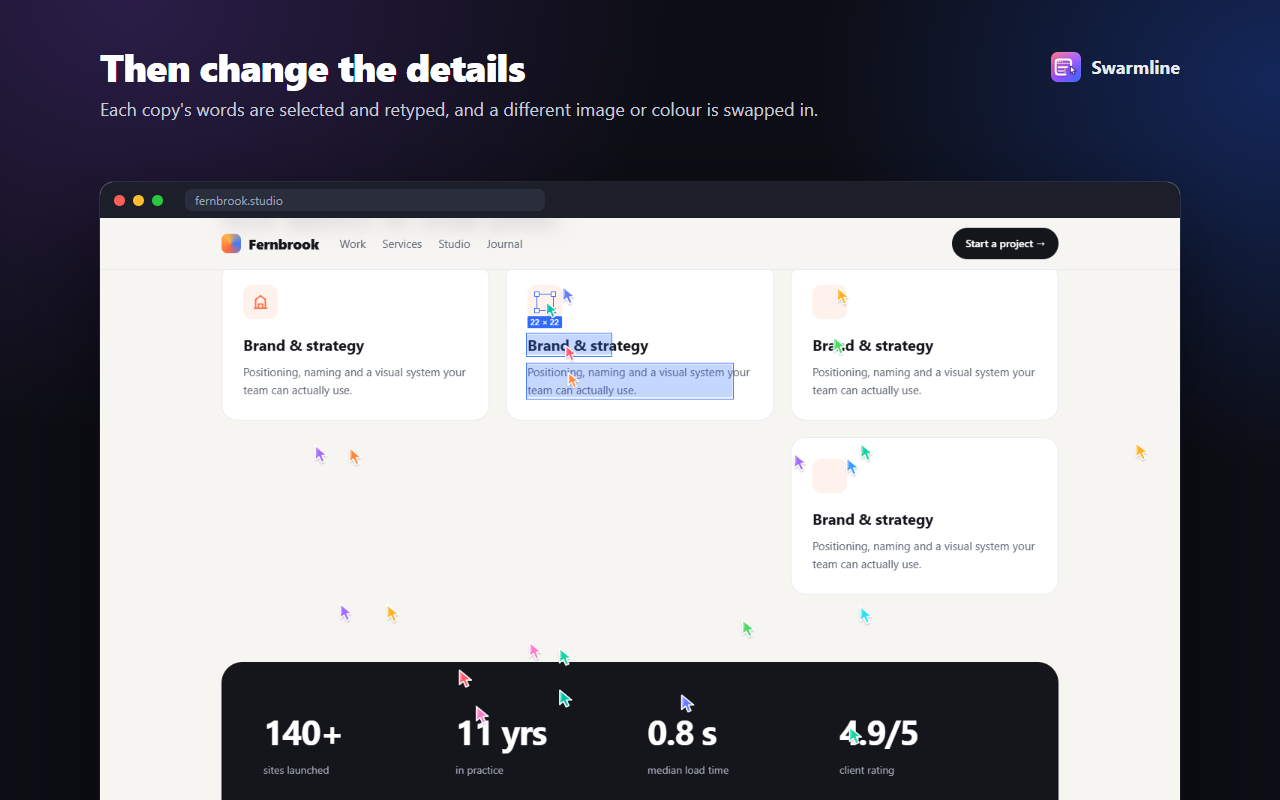
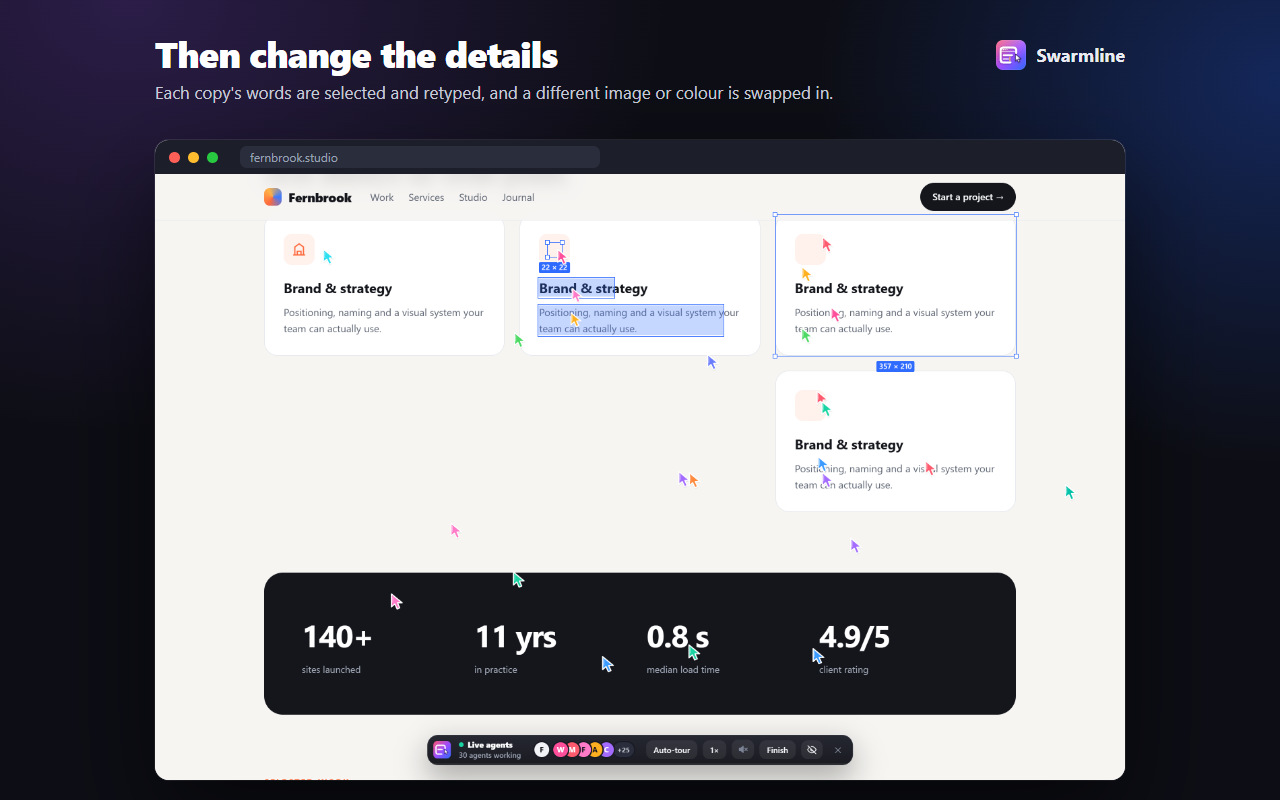
Store assets show the Live agents toolbar; full publishing guide
- Screenshots frame the whole browser window (captured at 2x), so the new
  toolbar appears in every shot; captions fit on one line.
- PUBLISHING.md: where every file is, what goes in each dashboard field, the
  GitHub and Pages steps, after-approval and update steps, troubleshooting.
- Privacy policy: precise wording now that the toolbar shows the open site's
  own favicon (still no servers contacted, nothing collected).

diff --git a/site/privacy.html b/site/privacy.html
@@ -4,7 +4,7 @@
 <meta charset="utf-8">
 <meta name="viewport" content="width=device-width, initial-scale=1">
 <title>Privacy policy · Swarmline</title>
-<meta name="description" content="Swarmline's privacy policy: it collects no data, makes no network requests and stores nothing.">
+<meta name="description" content="Swarmline's privacy policy: it collects no data, contacts no servers and stores nothing.">
 <link rel="icon" href="assets/favicon-32.png" sizes="32x32">
 <link rel="stylesheet" href="styles.css">
 </head>
@@ -26,7 +26,7 @@
   <ul>
     <li><strong>It only runs when you ask.</strong> Swarmline uses Chrome's <code>activeTab</code> permission, so it can access only the tab where you click its toolbar button or press its shortcut, and only at that moment. It has no access to your other tabs, your browsing history, or any site you haven't started it on.</li>
     <li><strong>Everything happens on your device.</strong> To play the animation, Swarmline reads the layout of the page in your browser (where elements are, their sizes and colours) and temporarily hides elements, then shows them again one by one. That information is used only for the animation, stays in that tab's memory, and is discarded when the animation ends, when you exit, or when you leave the page. The page is always left exactly as it was.</li>
-    <li><strong>No network requests.</strong> Swarmline doesn't contact any server, doesn't use analytics or tracking, and doesn't load remote code.</li>
+    <li><strong>No servers, no tracking.</strong> Swarmline doesn't contact any server of its own or anyone else's, doesn't use analytics or tracking, and doesn't load remote code. The one thing it shows from the web is the open site's own icon (its favicon), in the toolbar, taken from that same site.</li>
     <li><strong>No storage.</strong> Nothing is saved to cookies, <code>localStorage</code>, <code>chrome.storage</code> or anywhere else.</li>
     <li><strong>No accounts, no ads, no selling of data.</strong></li>
   </ul>

diff --git a/PUBLISHING.md b/PUBLISHING.md
@@ -1,65 +1,150 @@
-# Publishing Swarmline to the Chrome Web Store
+# Publishing Swarmline
 
-Everything in this folder is ready. These are the steps only you can do (accounts, payment, review). Allow about an hour, then a few days for Google's review.
+Everything to upload is already built and checked. This guide covers the parts only you can do: accounts, the fee and the review. It takes about an hour, then Google usually reviews in a few days.
 
-## 0. Before you start
+## Where everything is
 
-- [x] Support email set to **imperfxt@gmail.com** (shown on the website and privacy policy). To change it later:
-      ```sh
-      npm run configure -- --email new@example.com
-      ```
-- [ ] Run the full check. It must say **READY** (this also rebuilds the five store screenshots from real moments of a build):
-      ```sh
-      npm install
-      npm run assets && npm run package && npm run preflight
-      ```
+All paths are inside `H:\swarm design\swarmline`.
 
-## 1. Put the code and website on GitHub (for the privacy policy URL)
+| What | Where | Used for |
+| --- | --- | --- |
+| **The extension package** | `dist\swarmline-1.0.0.zip` | Upload to the Chrome Web Store (built by `npm run package`) |
+| **Listing text, ready to paste** | `store\LISTING.md` | Every field of the store dashboard: description, privacy answers, URLs |
+| Store icon | `store\store-icon-128.png` | Store listing → Store icon |
+| Screenshots 1–5 | `store\screenshot-1.png` … `screenshot-5.png` | Store listing → Screenshots (upload in order) |
+| Small promo tile | `store\promo-440x280.png` | Store listing → Small promo tile |
+| Marquee promo tile | `store\marquee-1400x560.png` | Store listing → Marquee promo tile |
+| Website (home, privacy, support) | `site\` (built copy in `dist\site\`) | Published to GitHub Pages automatically when you push |
+| Privacy policy | `PRIVACY.md`, and the web page `site\privacy.html` | The store's privacy policy URL points at the web page |
+| Extension source | `extension\` (`manifest.json`, `background.js`, `swarmline.js`, `icons\`) | What's inside the zip |
+| Demo page for screenshots | `demo\index.html` | A fictional studio site the screenshots are taken from |
+| Build and check scripts | `scripts\` | `assets`, `package`, `site`, `configure`, `preflight` |
+| Tests | `tests\` | `npm test`, `npm run test:ext` |
+| Credits and licence | `NOTICE.md`, `LICENSE` | Credits Swarm Rebuild (Dhvanil Patel) and Swarm (Joel Califa) |
+| Website settings | `site.config.json` | Support email, store link, repo and site URLs (change them with `npm run configure`) |
+| Pages deploy | `.github\workflows\pages.yml` | Builds and publishes the website on every push |
 
-The store requires a public privacy policy page, and the site in `site/` provides it.
+Not uploaded anywhere: `node_modules\` (tools for building and testing) and `store\raw\` (raw captures used to make the screenshots, ignored by git).
 
-1. Create a **public** repository named **`swarmline`** on github.com (account `imperfec-t`). Don't add a README or license; this folder already has them.
-2. From this folder:
+## Your details (already filled in everywhere)
+
+| | |
+| --- | --- |
+| Publisher name | imperfxt |
+| Account type | Non-trader |
+| Contact and support email | imperfxt@gmail.com |
+| GitHub | imperfec-t, repo `swarmline` |
+| Homepage | https://imperfec-t.github.io/swarmline/ |
+| Support page | https://imperfec-t.github.io/swarmline/support.html |
+| Privacy policy | https://imperfec-t.github.io/swarmline/privacy.html |
+
+## Step 0: final check (2 minutes)
+
+In a terminal in this folder:
+
+```sh
+npm install
+npm run assets && npm run package && npm run preflight
+```
+
+It must end with **READY: 0 failing**. One warning ("storeUrl not set yet") is expected until the store link exists in step 5. `npm run assets` regenerates the five screenshots from real moments of a build, so run it again whenever the look changes.
+
+## Step 1: put the code on GitHub (10 minutes)
+
+The store needs a public privacy policy page, and the website in `site\` provides it.
+
+1. Sign in to github.com as **imperfec-t**. Click **+ → New repository**.
+2. Repository name: **`swarmline`**. Set it to **Public**. Leave "Add a README", ".gitignore" and "license" **unticked**, because this folder already has them. Click **Create repository**.
+3. In a terminal in this folder:
    ```sh
    git remote add origin https://github.com/imperfec-t/swarmline.git
    git push -u origin main
    ```
-3. On GitHub: **Settings → Pages → Build and deployment → Source: GitHub Actions**.
-4. Open the **Actions** tab and wait for **Website** to go green (re-run it once if it ran before step 3).
-5. Check these three pages load:
+   The first push opens a browser window to sign in to GitHub. Approve it.
+
+## Step 2: turn on the website (5 minutes)
+
+1. On the repo page: **Settings → Pages → Build and deployment → Source: GitHub Actions**.
+2. Open the **Actions** tab. Wait for the **Website** run to turn green (about a minute). If it ran and failed before you changed the setting, click it and choose **Re-run all jobs**.
+3. Open these three pages and check they load:
    - https://imperfec-t.github.io/swarmline/
    - https://imperfec-t.github.io/swarmline/privacy.html
    - https://imperfec-t.github.io/swarmline/support.html
 
-## 2. Register as a Chrome Web Store developer (once)
+Don't submit to the store until the privacy page loads. Reviewers open it.
 
-1. Go to the [Developer Dashboard](https://chrome.google.com/webstore/devconsole) and sign in with the Google account you want to publish under.
-2. Accept the developer agreement and pay the one-time registration fee.
-3. In **Account**, set the **publisher name** and **contact email** (use imperfxt@gmail.com), and verify the email (Google sends a link). Submission isn't possible until the contact email is verified.
+## Step 3: developer account (once, 10 minutes)
 
-## 3. Create the item
+1. Turn on **2-Step Verification** for the Google account you'll publish with (myaccount.google.com → Security). The Chrome Web Store requires it.
+2. Open the [Chrome Web Store Developer Dashboard](https://chrome.google.com/webstore/devconsole) and sign in.
+3. Accept the developer agreement and pay the one-time registration fee.
+4. **Account** page:
+   - **Publisher name:** `imperfxt`
+   - **Trader / non-trader:** choose **non-trader**. You can change this later if you add paid features.
+   - **Contact email:** `imperfxt@gmail.com`, then click the verification link Google emails you. You can't submit until it's verified.
+   - Leave the physical address empty unless the form requires it. As a non-trader it isn't shown on the listing.
 
-1. **Items → New item → upload `dist/swarmline-1.0.0.zip`**.
-2. Fill in each tab using [`store/LISTING.md`](store/LISTING.md), which has every value ready to paste:
-   - **Store listing:** description, category (Developer Tools), language, the store icon, five screenshots (in order), small promo tile and marquee tile, homepage and support URLs.
-   - **Privacy:** the single purpose text, the two permission justifications, "No" to remote code, no data types collected, tick the three certifications, and the privacy policy URL.
-   - **Distribution:** free, public, all regions.
-3. Press **Submit for review**. Review usually takes a few days; you'll get an email.
+## Step 4: create the listing (20 minutes)
 
-## 4. After it's approved
+1. Dashboard → **Items → + New item** → upload **`dist\swarmline-1.0.0.zip`**.
+2. Fill in each tab. Every value is in **`store\LISTING.md`**, so copy and paste from there:
 
-1. Copy the extension's store address (it looks like `https://chromewebstore.google.com/detail/swarmline/<id>`).
-2. Point the website's **Add to Chrome** buttons at it and publish:
+   **Store listing tab**
+   - **Description:** paste the block under "Description".
+   - **Category:** Developer Tools. **Language:** English.
+   - **Store icon:** `store\store-icon-128.png`
+   - **Screenshots:** `store\screenshot-1.png` to `screenshot-5.png`, **in that order**.
+   - **Small promo tile:** `store\promo-440x280.png`. **Marquee promo tile:** `store\marquee-1400x560.png`.
+   - **Homepage URL** and **Support URL:** as in the table above. Leave **Official URL** empty.
+   - **Mature content:** No.
+
+   **Privacy tab**
+   - **Single purpose:** paste from LISTING.md.
+   - **Permission justifications:** paste the two lines for `activeTab` and `scripting`. There are no host permissions to justify.
+   - **Remote code:** "No, I am not using remote code".
+   - **Data usage:** tick **no** data types, then tick all **three** certifications.
+   - **Privacy policy URL:** https://imperfec-t.github.io/swarmline/privacy.html
+
+   **Distribution tab**
+   - **Payments:** Free. **Visibility:** Public. **Regions:** All regions.
+
+   **Test instructions tab** (if shown)
+   - "No account or setup needed. Open any website, click the Swarmline toolbar button (or press Alt+Shift+L), and watch it build. Press F to finish, Esc to exit."
+
+3. Click **Save draft**, then **Submit for review**. You can untick "Publish automatically after approval" if you want to press Publish yourself.
+
+Review usually takes a few days, sometimes longer for a new developer account. Google emails you the result.
+
+## Step 5: after approval (5 minutes)
+
+1. Copy the store address. It looks like `https://chromewebstore.google.com/detail/swarmline/<id>`.
+2. Point the website's **Add to Chrome** buttons at it:
    ```sh
    npm run configure -- --store-url https://chromewebstore.google.com/detail/swarmline/<id>
-   git commit -am "Link the store listing" && git push
+   git commit -am "Link the store listing"
+   git push
    ```
+   The website updates by itself within a minute.
 
 ## Shipping an update later
 
-1. Make the change, then bump `"version"` in `extension/manifest.json` (for example `1.0.1`) and in `package.json`.
-2. `npm test && npm run test:ext && npm run assets && npm run package && npm run preflight`
-3. Dashboard → your item → **Package → Upload new package** → `dist/swarmline-<version>.zip` → **Submit for review**.
+1. Make the change, then raise `"version"` in both `extension\manifest.json` and `package.json` (for example to `1.0.1`).
+2. Run:
+   ```sh
+   npm test && npm run test:ext && npm run assets && npm run package && npm run preflight
+   ```
+3. Dashboard → your item → **Package → Upload new package** → `dist\swarmline-<version>.zip` → **Submit for review**. If the screenshots changed, replace them on the Store listing tab as well.
+4. `git commit -am "1.0.1"` and `git push`.
+
+## If something goes wrong
+
+| Problem | Fix |
+| --- | --- |
+| "Couldn't find manifest" on upload | Upload the zip from `dist\` as it is. Don't unzip it or zip the folder yourself. |
+| Can't submit: email not verified | Account page → resend the verification email to imperfxt@gmail.com. |
+| Privacy page shows 404 | Settings → Pages must say "GitHub Actions". Then re-run the Website workflow in the Actions tab. |
+| `git push` is rejected | The repo was created with a README. Delete the repo, create it again empty, and push again. |
+| Rejected for permissions or privacy | Reply in the dashboard quoting LISTING.md: Swarmline only uses `activeTab` and `scripting`, collects nothing and has no remote code. |
 
 ## Common rejection reasons (already handled)
 
@@ -67,7 +152,7 @@ The store requires a public privacy policy page, and the site in `site/` provide
 | --- | --- |
 | Excessive permissions | Only `activeTab` and `scripting`; no host permissions, no always-on content scripts |
 | Missing or vague single purpose | One clear purpose, stated in the listing and the manifest summary |
-| No privacy policy / mismatched data disclosures | Public policy page; the code makes no network calls and stores nothing (checked by `npm run preflight`) |
+| No privacy policy / mismatched data disclosures | Public policy page that matches the code: nothing is collected, no servers are contacted (checked by `npm run preflight`) |
 | Remote code | All code is bundled; preflight checks for `eval`, `new Function` and remote scripts |
-| Misleading or copied branding | Original name, icon, artwork and animation; screenshots use a fictional demo site |
+| Misleading or copied branding | Original name, icon and artwork, and credits in NOTICE.md; screenshots use a fictional demo site |
 | Keyword stuffing | The description is plain prose with no keyword lists |

diff --git a/PRIVACY.md b/PRIVACY.md
@@ -6,7 +6,7 @@ Swarmline is a Chrome extension that plays an animation of the current web page 
 
 - **It only runs when you ask.** Swarmline uses Chrome's `activeTab` permission, so it can access only the tab where you click its toolbar button or press its shortcut, and only at that moment. It has no access to your other tabs, your browsing history, or any site you haven't started it on.
 - **Everything happens on your device.** To play the animation, Swarmline reads the layout of the page in your browser (where elements are, their sizes and colours) and temporarily hides elements, then shows them again one by one. That information is used only for the animation, stays in that tab's memory, and is discarded when the animation ends, when you exit, or when you leave the page. The page is always left exactly as it was.
-- **No network requests.** Swarmline doesn't contact any server, doesn't use analytics or tracking, and doesn't load remote code.
+- **No servers, no tracking.** Swarmline doesn't contact any server of its own or anyone else's, doesn't use analytics or tracking, and doesn't load remote code. The one thing it shows from the web is the open site's own icon (its favicon), in the toolbar, taken from that same site.
 - **No storage.** Nothing is saved to cookies, `localStorage`, `chrome.storage` or anywhere else.
 - **No accounts, no ads, no selling of data.**
 
